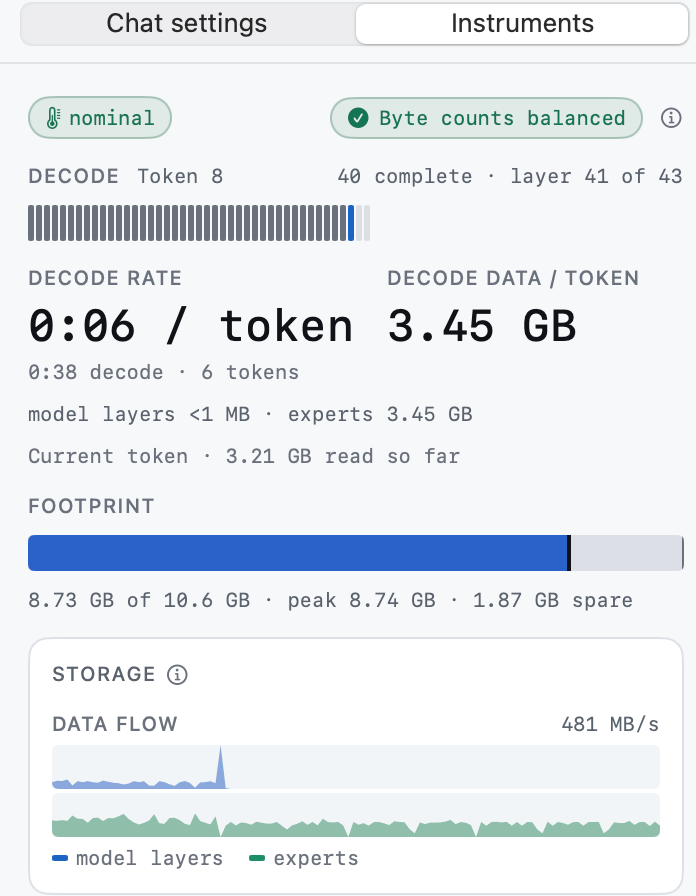
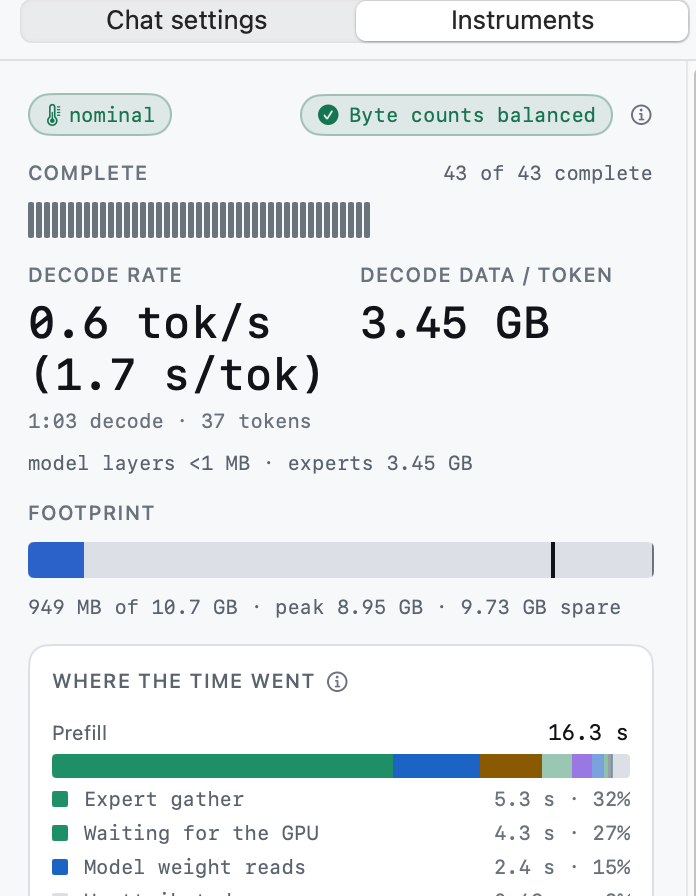
README: the Mac pace as the app shows it, and the 0.4 captures

diff --git a/README.zh-CN.md b/README.zh-CN.md
@@ -38,7 +38,7 @@ Minirun 是一个原生的 macOS 与 iOS 应用，用来运行权重远大于设
 
 | 模型 | 磁盘占用 | Mac（M1 Pro，32 GB） | iPhone 16 Pro | 状态 |
 | --- | ---: | --- | --- | --- |
-| [DeepSeek V4 Flash](https://minirun.dev/models/deepseek-v4-flash-0731)，284B MoE | 167 GB | 约 1.5 秒/token，预算 10.7 GB；2 GB 也能跑 | 约 15 秒/token，预算 3.8 GB；2 GB 也能跑 | 可对话 |
+| [DeepSeek V4 Flash](https://minirun.dev/models/deepseek-v4-flash-0731)，284B MoE | 167 GB | 约 1.7 秒/token，预算 10.7 GB；2 GB 也能跑 | 约 15 秒/token，预算 3.8 GB；2 GB 也能跑 | 可对话 |
 | [Kimi K3](https://minirun.dev/models/kimi-k3)，2.8T MoE | 1.56 TB | 约 70 秒/token，预算 8 GB | 约 220 秒/token，预算 5.8 GB，每轮 2 个 token | 可对话 |
 | [MiniMax H3](https://minirun.dev/models/minimax-h3)，音频与视频生成 | 64 GB | 下载、验证、存储 | 下载、验证、存储 | 容器就绪 |
 | Qwen3.8-27B | — | — | — | 即将推出 |

diff --git a/README.md b/README.md
@@ -58,7 +58,7 @@ powered dock — and change with the drive, cable and budget.
 
 | Model | On disk | Mac (M1 Pro, 32 GB) | iPhone 16 Pro | Status |
 | --- | ---: | --- | --- | --- |
-| [DeepSeek V4 Flash](https://minirun.dev/models/deepseek-v4-flash-0731) — 284 B MoE | 167 GB | ≈ 1.5 s / token, 10.7 GB budget; runs at 2 GB | ≈ 15 s / token, 3.8 GB budget; runs at 2 GB | Chat ready |
+| [DeepSeek V4 Flash](https://minirun.dev/models/deepseek-v4-flash-0731) — 284 B MoE | 167 GB | ≈ 1.7 s / token, 10.7 GB budget; runs at 2 GB | ≈ 15 s / token, 3.8 GB budget; runs at 2 GB | Chat ready |
 | [Kimi K3](https://minirun.dev/models/kimi-k3) — 2.8 T MoE | 1.56 TB | ≈ 70 s / token, 8 GB budget | ≈ 220 s / token, 5.8 GB budget, 2-token replies | Chat ready |
 | [MiniMax H3](https://minirun.dev/models/minimax-h3) — audio & video generation | 64 GB | download, verify and store | download, verify and store | Container ready |
 | Qwen3.8-27B | — | — | — | Coming soon |
